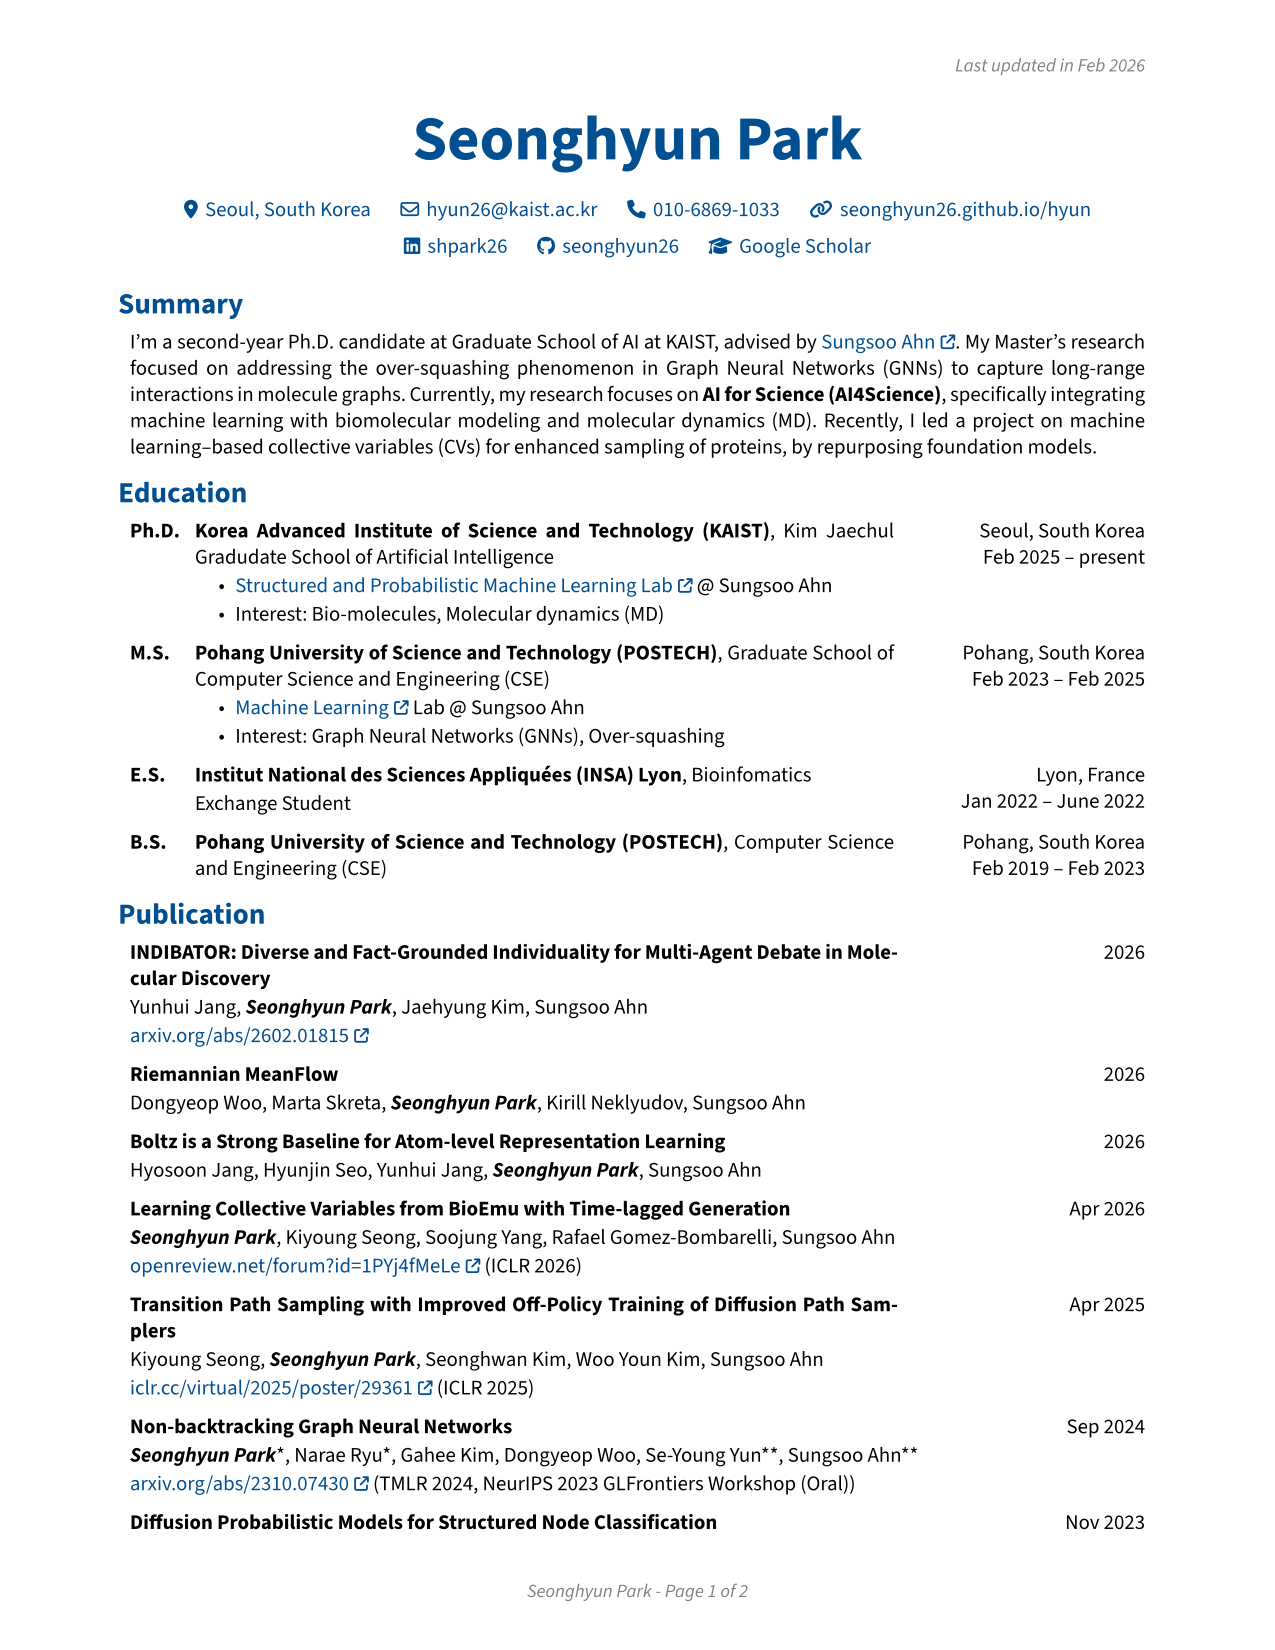
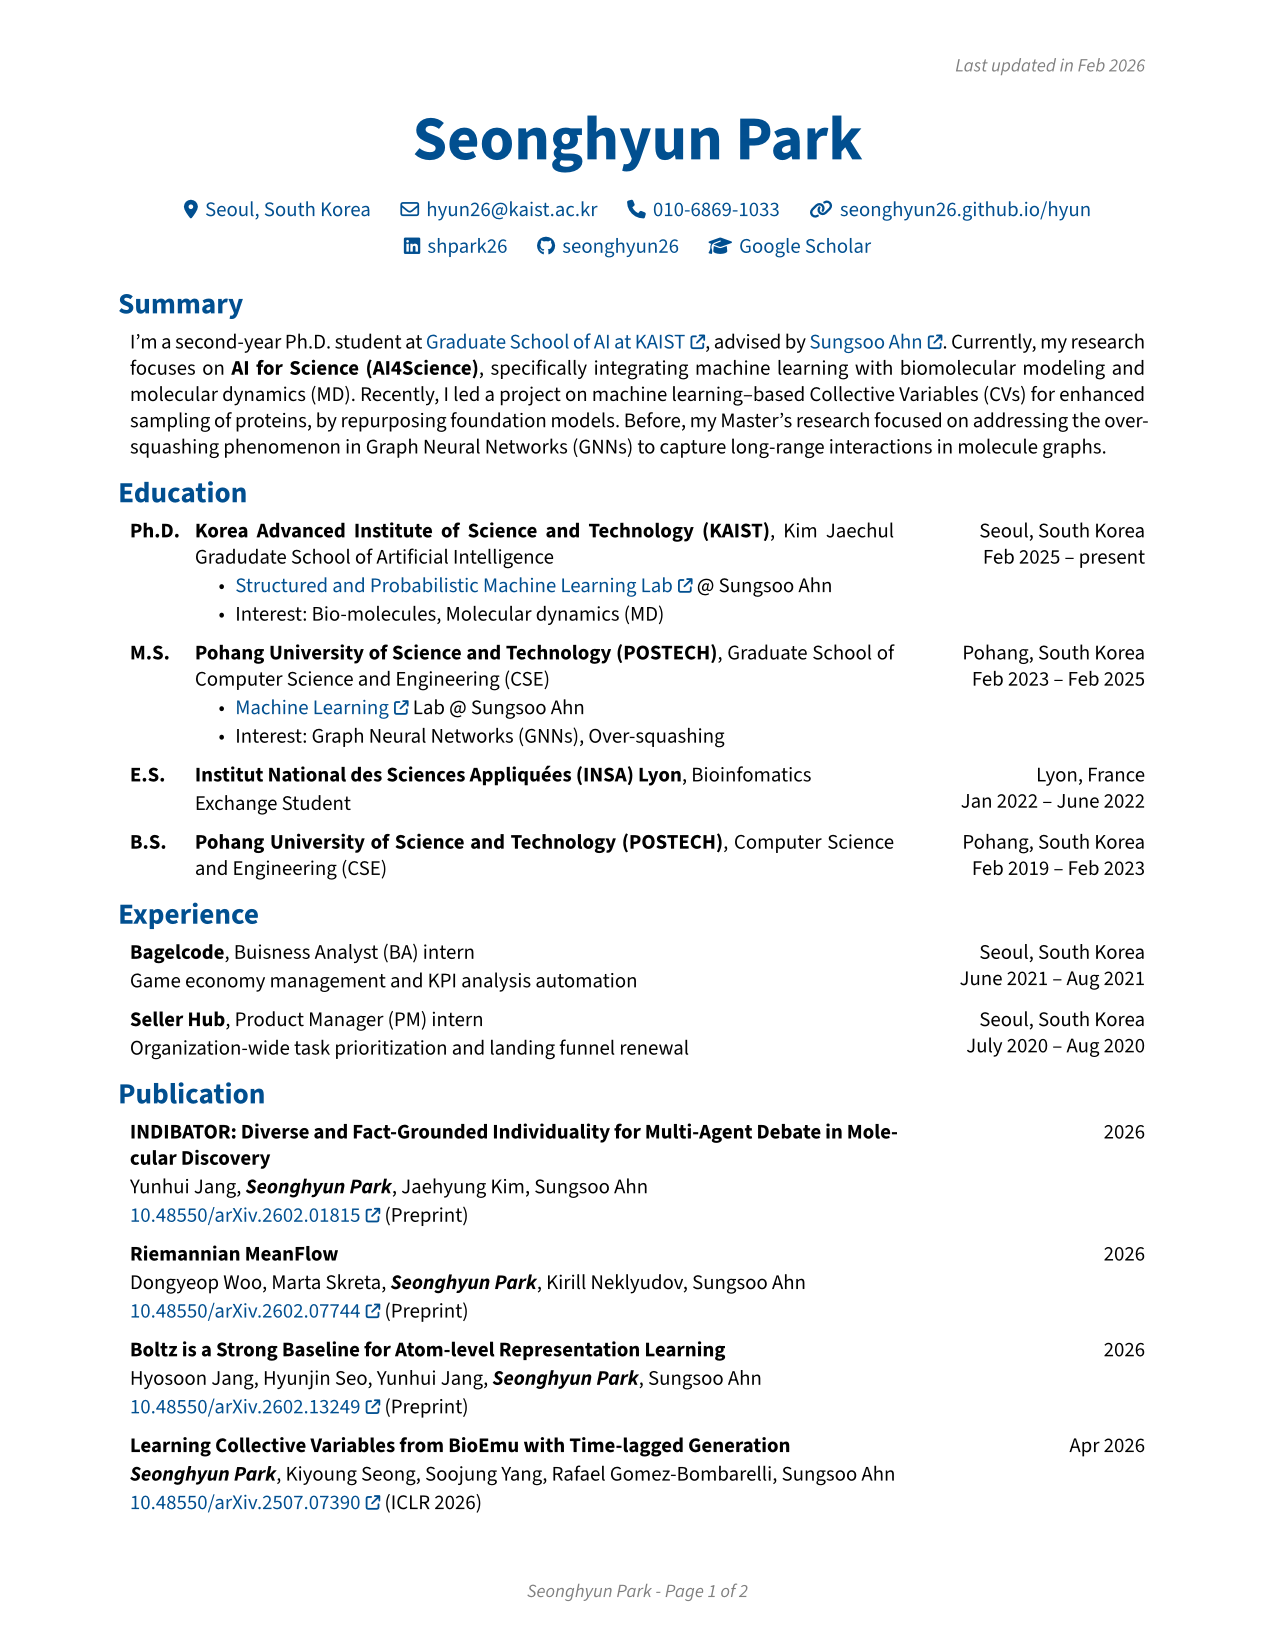
upd - resume

diff --git a/resume/output/Seonghyun_Park_CV.html b/resume/output/Seonghyun_Park_CV.html
@@ -50,7 +50,7 @@
         <li>Google Scholar: <a href="https://scholar.google.com/citations?user=w4q4N9sAAAAJ">w4q4N9sAAAAJ</a></li>
         </ul>
         <h1>Summary</h1>
-        <p>I'm a second-year Ph.D. candidate at Graduate School of AI at KAIST, advised by <a href="https://sites.google.com/view/sungsooahn0215">Sungsoo Ahn</a>. My Master’s research focused on addressing the over-squashing phenomenon in Graph Neural Networks (GNNs) to capture long-range interactions in molecule graphs. Currently, my research focuses on <strong>AI for Science (AI4Science)</strong>, specifically integrating machine learning with biomolecular modeling and molecular dynamics (MD). Recently, I led a project on machine learning–based collective variables (CVs) for enhanced sampling of proteins, by repurposing foundation models.</p>
+        <p>I'm a second-year Ph.D. student at <a href="https://gsai.kaist.ac.kr/">Graduate School of AI at KAIST</a>, advised by <a href="https://sungsoo-ahn.github.io/">Sungsoo Ahn</a>. Currently, my research focuses on <strong>AI for Science (AI4Science)</strong>, specifically integrating machine learning with biomolecular modeling and molecular dynamics (MD). Recently, I led a project on machine learning–based Collective Variables (CVs) for enhanced sampling of proteins, by repurposing foundation models. Before, my Master’s research focused on addressing the over-squashing phenomenon in Graph Neural Networks (GNNs) to capture long-range interactions in molecule graphs.</p>
         <h1>Education</h1>
         <h2>Korea Advanced Institute of Science and Technology (KAIST), Ph.D. in Kim Jaechul Gradudate School of Artificial Intelligence</h2>
         <ul>
@@ -76,46 +76,6 @@
         <li>Feb 2019 – Feb 2023</li>
         <li>Pohang, South Korea</li>
         </ul>
-        <h1>Publication</h1>
-        <h2>INDIBATOR: Diverse and Fact-Grounded Individuality for Multi-Agent Debate in Molecular Discovery (<a href="arxiv.org/abs/2602.01815">https://arxiv.org/abs/2602.01815</a>)</h2>
-        <ul>
-        <li>2026</li>
-        <li>Yunhui Jang, <strong><em>Seonghyun Park</em></strong>, Jaehyung Kim, Sungsoo Ahn</li>
-        </ul>
-        <h2>Riemannian MeanFlow</h2>
-        <ul>
-        <li>2026</li>
-        <li>Dongyeop Woo, Marta Skreta, <strong><em>Seonghyun Park</em></strong>, Kirill Neklyudov, Sungsoo Ahn</li>
-        </ul>
-        <h2>Boltz is a Strong Baseline for Atom-level Representation Learning</h2>
-        <ul>
-        <li>2026</li>
-        <li>Hyosoon Jang, Hyunjin Seo, Yunhui Jang, <strong><em>Seonghyun Park</em></strong>, Sungsoo Ahn</li>
-        </ul>
-        <h2>Learning Collective Variables from BioEmu with Time-lagged Generation (<a href="openreview.net/forum?id=1PYj4fMeLe">https://openreview.net/forum?id=1PYj4fMeLe</a>)</h2>
-        <ul>
-        <li>Apr 2026</li>
-        <li><strong><em>Seonghyun Park</em></strong>, Kiyoung Seong, Soojung Yang, Rafael Gomez-Bombarelli, Sungsoo Ahn</li>
-        <li>ICLR 2026</li>
-        </ul>
-        <h2>Transition Path Sampling with Improved Off-Policy Training of Diffusion Path Samplers (<a href="iclr.cc/virtual/2025/poster/29361">https://iclr.cc/virtual/2025/poster/29361</a>)</h2>
-        <ul>
-        <li>Apr 2025</li>
-        <li>Kiyoung Seong, <strong><em>Seonghyun Park</em></strong>, Seonghwan Kim, Woo Youn Kim, Sungsoo Ahn</li>
-        <li>ICLR 2025</li>
-        </ul>
-        <h2>Non-backtracking Graph Neural Networks (<a href="arxiv.org/abs/2310.07430">https://arxiv.org/abs/2310.07430</a>)</h2>
-        <ul>
-        <li>Sep 2024</li>
-        <li><strong><em>Seonghyun Park</em></strong><em>, Narae Ryu</em>, Gahee Kim, Dongyeop Woo, Se-Young Yun<strong>, Sungsoo Ahn</strong></li>
-        <li>TMLR 2024, NeurIPS 2023 GLFrontiers Workshop (Oral)</li>
-        </ul>
-        <h2>Diffusion Probabilistic Models for Structured Node Classification (<a href="neurips.cc/virtual/2023/poster/72405">https://neurips.cc/virtual/2023/poster/72405</a>)</h2>
-        <ul>
-        <li>Nov 2023</li>
-        <li>Hyosoon Jang, <strong><em>Seonghyun Park</em></strong>, Sangwoo Mo, Sungsoo Ahn</li>
-        <li>NeurIPS 2023</li>
-        </ul>
         <h1>Experience</h1>
         <h2>Bagelcode, Buisness Analyst (BA) intern</h2>
         <ul>
@@ -126,6 +86,49 @@
         <ul>
         <li>July 2020 – Aug 2020</li>
         <li>Seoul, South Korea</li>
+        </ul>
+        <h1>Publication</h1>
+        <h2>INDIBATOR: Diverse and Fact-Grounded Individuality for Multi-Agent Debate in Molecular Discovery (<a href="https://doi.org/10.48550/arXiv.2602.01815">10.48550/arXiv.2602.01815</a>)</h2>
+        <ul>
+        <li>2026</li>
+        <li>Yunhui Jang, <strong><em>Seonghyun Park</em></strong>, Jaehyung Kim, Sungsoo Ahn</li>
+        <li>Preprint</li>
+        </ul>
+        <h2>Riemannian MeanFlow (<a href="https://doi.org/10.48550/arXiv.2602.07744">10.48550/arXiv.2602.07744</a>)</h2>
+        <ul>
+        <li>2026</li>
+        <li>Dongyeop Woo, Marta Skreta, <strong><em>Seonghyun Park</em></strong>, Kirill Neklyudov, Sungsoo Ahn</li>
+        <li>Preprint</li>
+        </ul>
+        <h2>Boltz is a Strong Baseline for Atom-level Representation Learning (<a href="https://doi.org/10.48550/arXiv.2602.13249">10.48550/arXiv.2602.13249</a>)</h2>
+        <ul>
+        <li>2026</li>
+        <li>Hyosoon Jang, Hyunjin Seo, Yunhui Jang, <strong><em>Seonghyun Park</em></strong>, Sungsoo Ahn</li>
+        <li>Preprint</li>
+        </ul>
+        <h2>Learning Collective Variables from BioEmu with Time-lagged Generation (<a href="https://doi.org/10.48550/arXiv.2507.07390">10.48550/arXiv.2507.07390</a>)</h2>
+        <ul>
+        <li>Apr 2026</li>
+        <li><strong><em>Seonghyun Park</em></strong>, Kiyoung Seong, Soojung Yang, Rafael Gomez-Bombarelli, Sungsoo Ahn</li>
+        <li>ICLR 2026</li>
+        </ul>
+        <h2>Transition Path Sampling with Improved Off-Policy Training of Diffusion Path Samplers (<a href="https://doi.org/10.48550/arXiv.2405.19961">10.48550/arXiv.2405.19961</a>)</h2>
+        <ul>
+        <li>Apr 2025</li>
+        <li>Kiyoung Seong, <strong><em>Seonghyun Park</em></strong>, Seonghwan Kim, Woo Youn Kim, Sungsoo Ahn</li>
+        <li>ICLR 2025</li>
+        </ul>
+        <h2>Non-backtracking Graph Neural Networks (<a href="https://doi.org/10.48550/arXiv.2310.07430">10.48550/arXiv.2310.07430</a>)</h2>
+        <ul>
+        <li>Sep 2024</li>
+        <li><strong><em>Seonghyun Park</em></strong><em>, Narae Ryu</em>, Gahee Kim, Dongyeop Woo, Se-Young Yun<strong>, Sungsoo Ahn</strong></li>
+        <li>TMLR 2024, NeurIPS 2023 Workshop GLFrontiers Oral</li>
+        </ul>
+        <h2>Diffusion Probabilistic Models for Structured Node Classification (<a href="https://doi.org/10.48550/arXiv.2302.10506">10.48550/arXiv.2302.10506</a>)</h2>
+        <ul>
+        <li>Nov 2023</li>
+        <li>Hyosoon Jang, <strong><em>Seonghyun Park</em></strong>, Sangwoo Mo, Sungsoo Ahn</li>
+        <li>NeurIPS 2023</li>
         </ul>
     </article>
 </body>

diff --git a/resume/output/Seonghyun_Park_CV.md b/resume/output/Seonghyun_Park_CV.md
@@ -11,7 +11,7 @@
 
 # Summary
 
-I'm a second-year Ph.D. candidate at Graduate School of AI at KAIST, advised by [Sungsoo Ahn](https://sites.google.com/view/sungsooahn0215). My Master’s research focused on addressing the over-squashing phenomenon in Graph Neural Networks (GNNs) to capture long-range interactions in molecule graphs. Currently, my research focuses on **AI for Science (AI4Science)**, specifically integrating machine learning with biomolecular modeling and molecular dynamics (MD). Recently, I led a project on machine learning–based collective variables (CVs) for enhanced sampling of proteins, by repurposing foundation models.
+I'm a second-year Ph.D. student at [Graduate School of AI at KAIST](https://gsai.kaist.ac.kr/), advised by [Sungsoo Ahn](https://sungsoo-ahn.github.io/). Currently, my research focuses on **AI for Science (AI4Science)**, specifically integrating machine learning with biomolecular modeling and molecular dynamics (MD). Recently, I led a project on machine learning–based Collective Variables (CVs) for enhanced sampling of proteins, by repurposing foundation models. Before, my Master’s research focused on addressing the over-squashing phenomenon in Graph Neural Networks (GNNs) to capture long-range interactions in molecule graphs.
 
 # Education
 
@@ -39,40 +39,6 @@ I'm a second-year Ph.D. candidate at Graduate School of AI at KAIST, advised by 
 - Feb 2019 – Feb 2023
 - Pohang, South Korea
 
-# Publication
-
-## INDIBATOR: Diverse and Fact-Grounded Individuality for Multi-Agent Debate in Molecular Discovery ([https://arxiv.org/abs/2602.01815](arxiv.org/abs/2602.01815))
-- 2026
-- Yunhui Jang, ***Seonghyun Park***, Jaehyung Kim, Sungsoo Ahn
-
-## Riemannian MeanFlow 
-- 2026
-- Dongyeop Woo, Marta Skreta, ***Seonghyun Park***, Kirill Neklyudov, Sungsoo Ahn
-
-## Boltz is a Strong Baseline for Atom-level Representation Learning 
-- 2026
-- Hyosoon Jang, Hyunjin Seo, Yunhui Jang, ***Seonghyun Park***, Sungsoo Ahn
-
-## Learning Collective Variables from BioEmu with Time-lagged Generation ([https://openreview.net/forum?id=1PYj4fMeLe](openreview.net/forum?id=1PYj4fMeLe))
-- Apr 2026
-- ***Seonghyun Park***, Kiyoung Seong, Soojung Yang, Rafael Gomez-Bombarelli, Sungsoo Ahn
-- ICLR 2026
-
-## Transition Path Sampling with Improved Off-Policy Training of Diffusion Path Samplers ([https://iclr.cc/virtual/2025/poster/29361](iclr.cc/virtual/2025/poster/29361))
-- Apr 2025
-- Kiyoung Seong, ***Seonghyun Park***, Seonghwan Kim, Woo Youn Kim, Sungsoo Ahn
-- ICLR 2025
-
-## Non-backtracking Graph Neural Networks ([https://arxiv.org/abs/2310.07430](arxiv.org/abs/2310.07430))
-- Sep 2024
-- ***Seonghyun Park****, Narae Ryu*, Gahee Kim, Dongyeop Woo, Se-Young Yun**, Sungsoo Ahn**
-- TMLR 2024, NeurIPS 2023 GLFrontiers Workshop (Oral)
-
-## Diffusion Probabilistic Models for Structured Node Classification ([https://neurips.cc/virtual/2023/poster/72405](neurips.cc/virtual/2023/poster/72405))
-- Nov 2023
-- Hyosoon Jang, ***Seonghyun Park***, Sangwoo Mo, Sungsoo Ahn
-- NeurIPS 2023
-
 # Experience
 
 ## Bagelcode, Buisness Analyst (BA) intern
@@ -84,4 +50,41 @@ I'm a second-year Ph.D. candidate at Graduate School of AI at KAIST, advised by 
 
 - July 2020 – Aug 2020
 - Seoul, South Korea
+
+# Publication
+
+## INDIBATOR: Diverse and Fact-Grounded Individuality for Multi-Agent Debate in Molecular Discovery ([10.48550/arXiv.2602.01815](https://doi.org/10.48550/arXiv.2602.01815))
+- 2026
+- Yunhui Jang, ***Seonghyun Park***, Jaehyung Kim, Sungsoo Ahn
+- Preprint
+
+## Riemannian MeanFlow ([10.48550/arXiv.2602.07744](https://doi.org/10.48550/arXiv.2602.07744))
+- 2026
+- Dongyeop Woo, Marta Skreta, ***Seonghyun Park***, Kirill Neklyudov, Sungsoo Ahn
+- Preprint
+
+## Boltz is a Strong Baseline for Atom-level Representation Learning ([10.48550/arXiv.2602.13249](https://doi.org/10.48550/arXiv.2602.13249))
+- 2026
+- Hyosoon Jang, Hyunjin Seo, Yunhui Jang, ***Seonghyun Park***, Sungsoo Ahn
+- Preprint
+
+## Learning Collective Variables from BioEmu with Time-lagged Generation ([10.48550/arXiv.2507.07390](https://doi.org/10.48550/arXiv.2507.07390))
+- Apr 2026
+- ***Seonghyun Park***, Kiyoung Seong, Soojung Yang, Rafael Gomez-Bombarelli, Sungsoo Ahn
+- ICLR 2026
+
+## Transition Path Sampling with Improved Off-Policy Training of Diffusion Path Samplers ([10.48550/arXiv.2405.19961](https://doi.org/10.48550/arXiv.2405.19961))
+- Apr 2025
+- Kiyoung Seong, ***Seonghyun Park***, Seonghwan Kim, Woo Youn Kim, Sungsoo Ahn
+- ICLR 2025
+
+## Non-backtracking Graph Neural Networks ([10.48550/arXiv.2310.07430](https://doi.org/10.48550/arXiv.2310.07430))
+- Sep 2024
+- ***Seonghyun Park****, Narae Ryu*, Gahee Kim, Dongyeop Woo, Se-Young Yun**, Sungsoo Ahn**
+- TMLR 2024, NeurIPS 2023 Workshop GLFrontiers Oral
+
+## Diffusion Probabilistic Models for Structured Node Classification ([10.48550/arXiv.2302.10506](https://doi.org/10.48550/arXiv.2302.10506))
+- Nov 2023
+- Hyosoon Jang, ***Seonghyun Park***, Sangwoo Mo, Sungsoo Ahn
+- NeurIPS 2023
 
